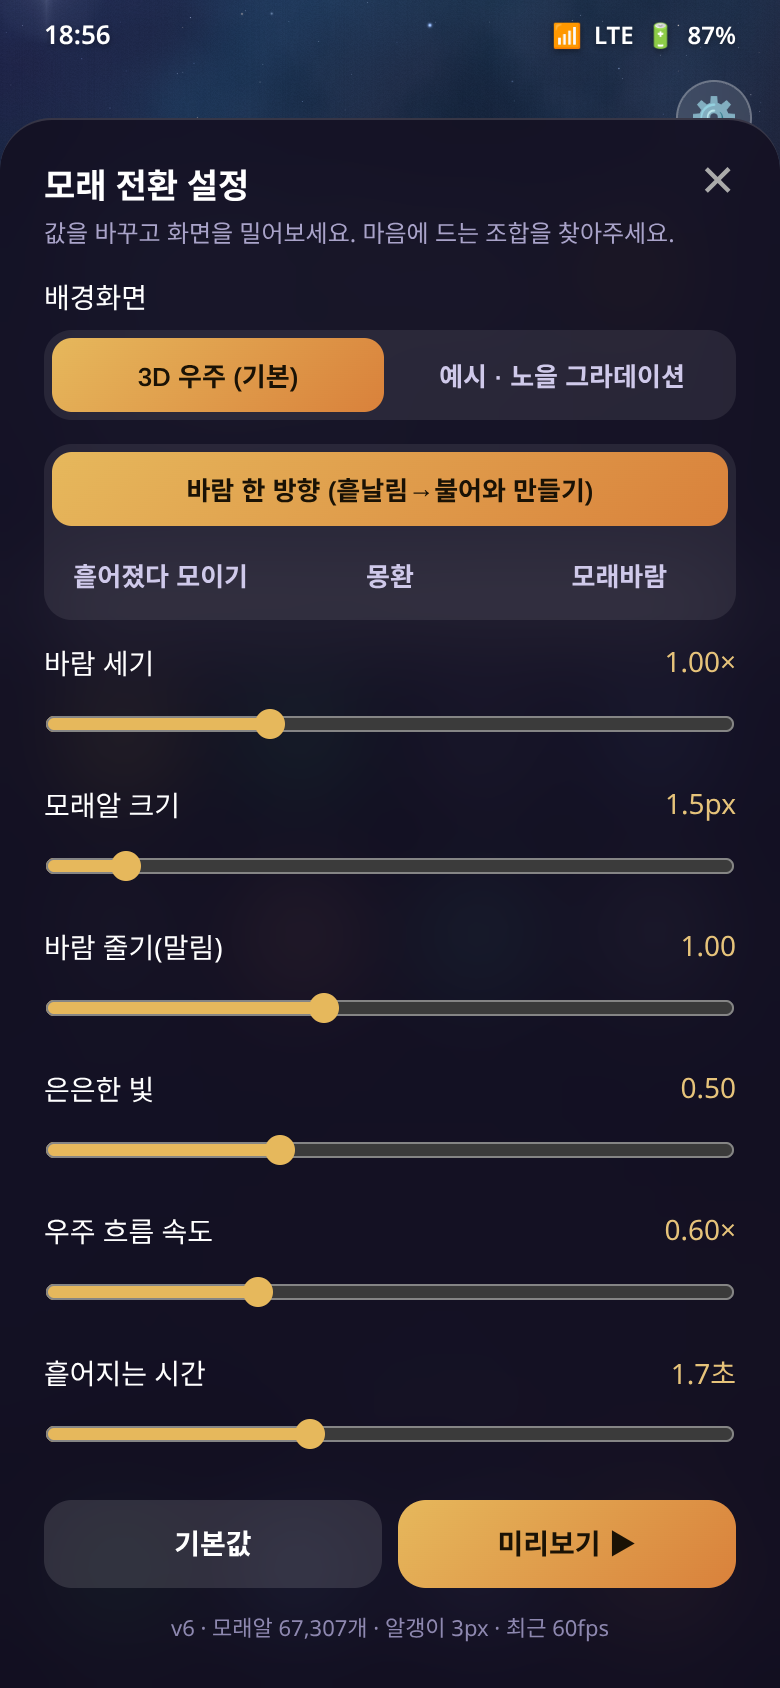
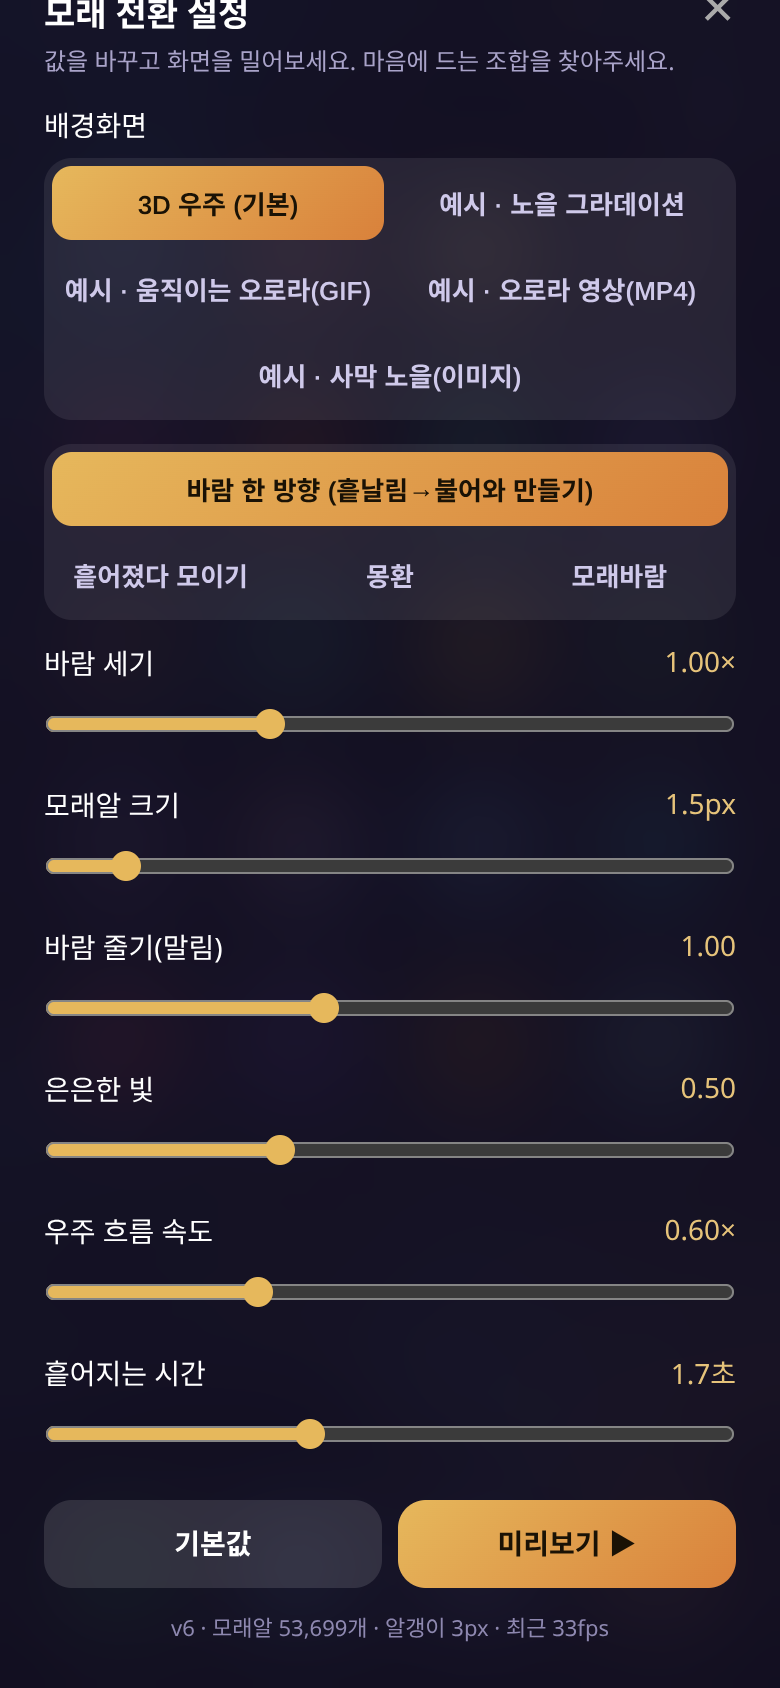
v6: 설정 패널 스크롤

Changed region(s): [[0.0, 0.0, 1.0, 0.2464], [0.7077, 0.955, 0.7385, 0.9858], [0.4, 0.955, 0.4308, 0.9858]]

diff --git a/index.html b/index.html
@@ -29,7 +29,7 @@
   .dk b{width:54px;height:54px;border-radius:17px;display:flex;align-items:center;justify-content:center;font-size:27px;box-shadow:0 4px 12px rgba(0,0,0,.3)}
   #toast{position:absolute;left:50%;bottom:190px;transform:translateX(-50%) translateY(20px);background:rgba(20,18,35,.85);padding:10px 18px;border-radius:20px;font-size:13px;opacity:0;transition:all .3s;z-index:9;pointer-events:none;white-space:nowrap;border:1px solid rgba(255,255,255,.15)}
   #toast.show{opacity:1;transform:translateX(-50%) translateY(0)}
-  #sheet{position:absolute;left:0;right:0;bottom:0;z-index:10;background:rgba(18,15,34,.92);backdrop-filter:blur(20px);-webkit-backdrop-filter:blur(20px);border-radius:26px 26px 0 0;padding:18px 22px calc(22px + env(safe-area-inset-bottom));transform:translateY(105%);transition:transform .35s cubic-bezier(.2,.9,.3,1);border-top:1px solid rgba(255,255,255,.15)}
+  #sheet{position:absolute;left:0;right:0;bottom:0;z-index:10;max-height:86%;overflow-y:auto;touch-action:pan-y;overscroll-behavior:contain;background:rgba(18,15,34,.92);backdrop-filter:blur(20px);-webkit-backdrop-filter:blur(20px);border-radius:26px 26px 0 0;padding:18px 22px calc(22px + env(safe-area-inset-bottom));transform:translateY(105%);transition:transform .35s cubic-bezier(.2,.9,.3,1);border-top:1px solid rgba(255,255,255,.15)}
   #sheet.open{transform:none}
   #sheet h3{font-size:17px;margin-bottom:4px;display:flex;justify-content:space-between;align-items:center}
   #sheet h3 button{background:none;border:none;color:#aaa;font-size:22px;cursor:pointer}
